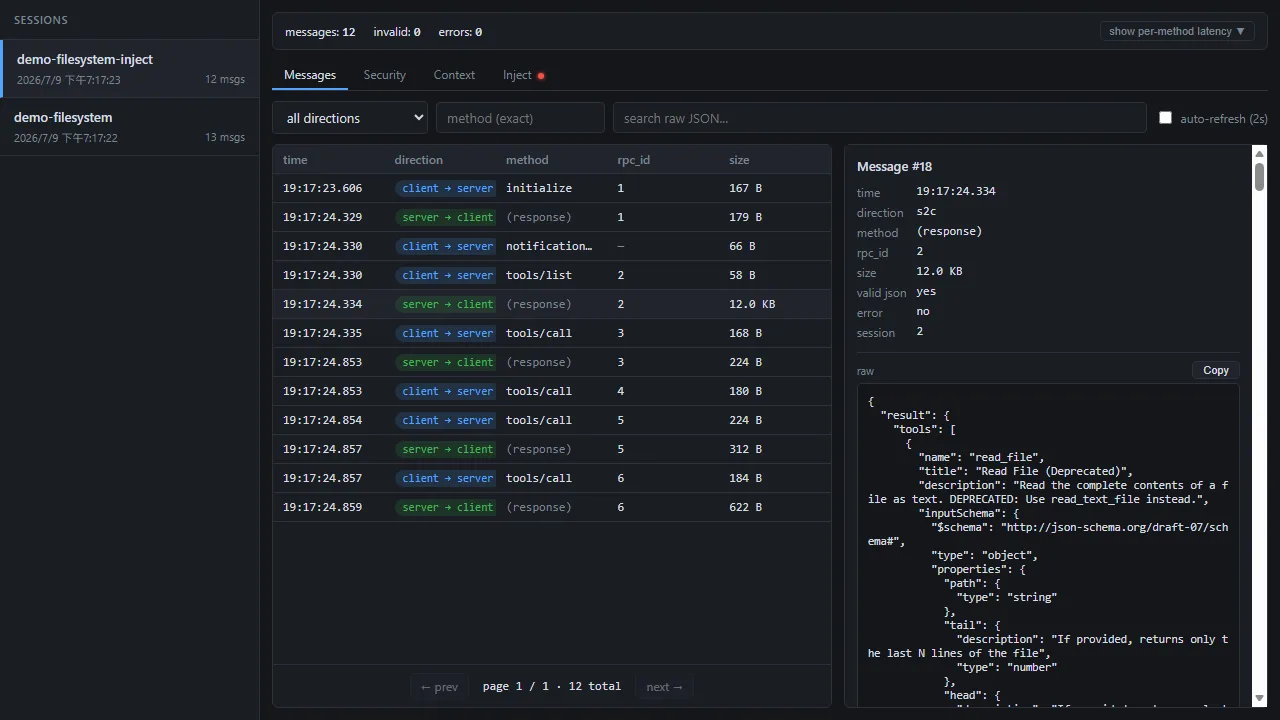
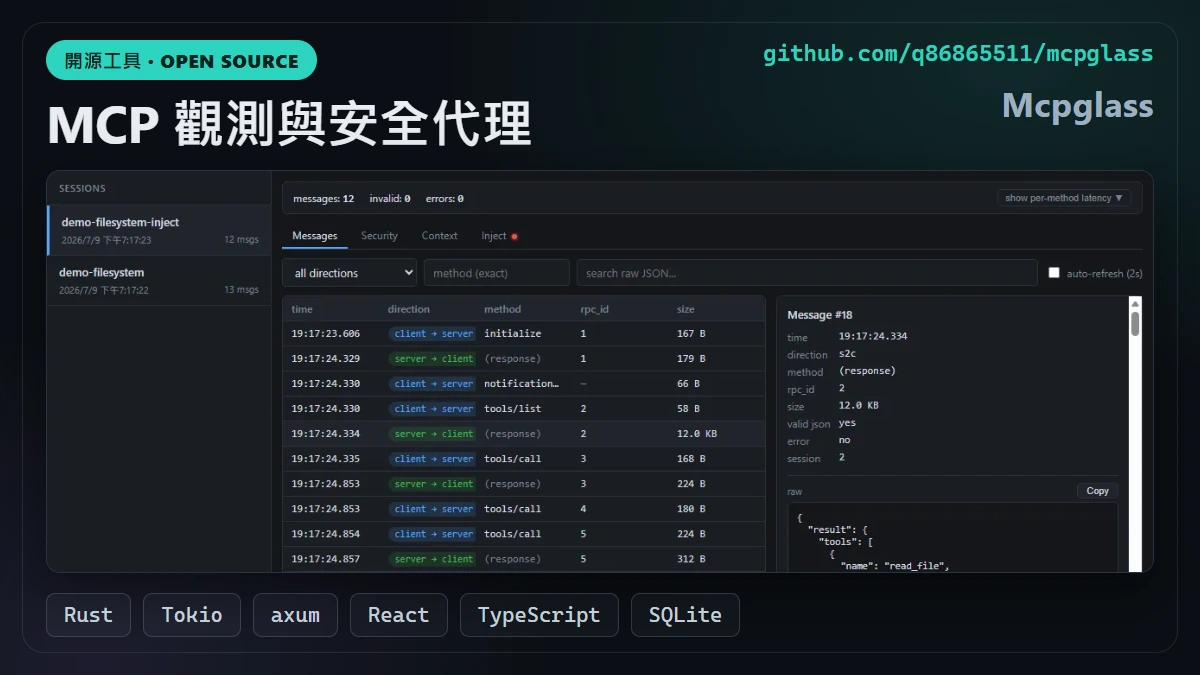
重構: 調整 Mcpglass 的 Notable 順序、名稱大寫與封面分類框架
- content/projects.json:mcpglass 條目移到 usage-monitor 之後(首頁 Notable 末位)
- 顯示標題 repoName/titleEn/titleZh 改為 Mcpglass;內文 CLI 指令、githubUrl、slug 保持小寫
- 重製 covers/mcpglass.webp:套其他 notable 同款框架(實心青「開源工具」分類 pill + 中英標題 + GitHub 連結 + dashboard 截圖 + 技術 chips)

diff --git a/PROGRESS.md b/PROGRESS.md
@@ -4,6 +4,7 @@
 **全套上線並自動化**:主站 https://terrychou.com、子站 https://soulshard.terrychou.com 皆上線。兩個 repo(portfolio、Soulshard-Hunter)各有獨立 self-hosted runner 與 CI/CD,push 即自動部署;對外經 Cloudflare Tunnel(零入站),主站部署後自動 purge 邊緣快取;Cloudflare Web Analytics 運作中(CWV 全綠)。文件齊備、SEO/分享優化完成。前端已套用 Engineer Dark「立體層次」美化與互動/無障礙修正、專案分層調整;履歷 PDF 改為 ATS 格式(並修掉產線誤渲染首頁的 bug、固定專案順序);子站加上「魂晶」favicon。已上線的 SteamSaleChecker 子站(steam.terrychou.com)以 Notable + showcase(卡片直接 Live)收入作品集(R3,PR #18 已 merge、自動部署中),並順手修掉 live-demo 卡片「看詳情」fallback 首頁的既有 bug。已完成上線的 ERPSystem(erp.terrychou.com)由早期 Phase-0/WIP 條目全面更新為**已完成全端 live app**(showcase + liveUrl、換新封面、移除 WIP 徽章、技能補 Spring Boot/Mantine)。
 
 ## 已完成
+- [2026-07-09] 🔤 **Mcpglass:Notable 順序後移 + 名稱首字大寫 + 封面改套分類框架**(使用者指定):① `content/projects.json` 把 mcpglass 條目移到 usage-monitor 之後——首頁 Notable 顯示順序改為 soulshard→steam→erp→usage-monitor→**Mcpglass**(順序由陣列位置決定,`projectsByTier` 保留 JSON 原始序);② 顯示標題三欄 `repoName`/`titleEn`/`titleZh` 的 mcpglass→**Mcpglass**,內文 CLI 指令 `mcpglass attach`、`githubUrl`、`cover` 路徑、`slug` 一律保持小寫(改大寫會壞掉真實指令與路由/檔名);③ 重製封面 `apps/main/public/covers/mcpglass.webp`(1200×675 webp):從光禿 dashboard 截圖改套其他 notable 同款框架——實心青「開源工具 · OPEN SOURCE」分類 pill + 中文主標「MCP 觀測與安全代理」+ 右上 `github.com/q86865511/mcpglass` + 「Mcpglass」品牌名 + 中間圓角框住原截圖 + 底部技術 chips(Rust/Tokio/axum/React/TypeScript/SQLite);puppeteer 一次性腳本產出、不進 repo。RESUME_ORDER(PDF 履歷順序)本就把 mcpglass 排最後,未受影響。驗證:`tsc --noEmit` 通過、`next build` 綠(20 靜態頁含 mcpglass 詳情頁、Exporting 2/2)、grep 確認三標題大寫且內文指令小寫、肉眼確認封面版式與 usage-monitor/erp 一致。
 - [2026-07-08] 📟 **新增 UsageMonitor(AI 用量監控)至 Notable 與 PDF 履歷**:新 repo(Tauri 2/Rust+React 的 Windows 系統匣 AI CLI 用量監控)以 showcase 收入作品集,排 Notable 最後(erp 之後)。① `content/projects.json` 新增 usage-monitor 條目(count 17→18;zh/en 雙語 oneLiner/desc/4 highlights/challenges,文案以 repo README 為準;`canRunInBrowser: false`,notes 指 Releases 下載);② `projects.ts` TIER_MAP 加 notable、RESUME_ORDER 末尾加入、tier 註解同步;③ `site.ts` 技能區程式語言加 Rust、前端加 Tauri(首頁與 PDF 同步生效);④ 新封面 `apps/main/public/covers/usage-monitor.webp`(1200×675 webp,套既有卡片版式:「桌面應用 DESKTOP」青色徽章 + 中英標題 + repo 連結 + 左側雙環量表呼應托盤圖示 + 右側直式截圖(取自 repo docs/screenshot.png)+ 技術 chips;sharp 一次性腳本產出,不進 repo)。驗證:turbo build 綠(19 頁、詳情頁 11 條含 usage-monitor)、Playwright e2e 3/3 過、dev server 實測首頁 Notable 04 卡/詳情頁/`/print?lang=zh|en` 逐項字串全過、generate-pdf 重產後肉眼確認 zh PDF 條目在 ERP 之後且維持兩頁。
 - [2026-07-07] 🗑️ **移除 cyclepact(輪迴盟約)——列為廢棄案(等哪天再做)**:使用者決定暫時下架此 WIP Godot 專案。從履歷網站與 PDF 履歷完整移除:① `content/projects.json` 刪除整個 cyclepact 條目、`count` 18→17;② `apps/main/src/lib/projects.ts` 移除 4 處引用(TIER_MAP、`WIP_SLUGS`(現為空 Set)、`RESUME_ORDER`、tier 註解);③ 刪除孤兒封面圖 `apps/main/public/covers/cyclepact.webp`。因網站(首頁 notable 卡、`/projects/[slug]` 詳情頁、sitemap)與 PDF(`resumeProjects()`)皆由 `projects.json` 衍生,一併同步移除。驗證:`tsc --noEmit` 通過;dev server 首頁已無 cyclepact 卡片/`輪迴盟約`標題/`/projects/cyclepact` 連結,`generateStaticParams()` 不再產出該頁(`dynamicParams=false` → 靜態匯出下 404)。infra(cloudflared/caddy 的「預留:未來啟用」註解)與 docs 教學範例未動——它們本就標示為「未來」,與「廢棄、等哪天再做」定位一致,保留以便日後復用。
 - [2026-07-03] ✏️ **PDF 全 6 專案敘述體檢 + 潤飾(續 ERP 潤飾,同 PR #27)**:逐一檢視 PDF 收錄 6 專案的「oneLiner + 前 2 條 highlights」組合後修 4 處(zh/en 對稱):① **SteamSaleChecker** 同 ERP 模式——oneLiner 原是 h1+h2+h3 的濃縮造成重複,改為講定位(SteamDB 風特價榜 + 自建價格歷史 + Discord 通知;免登入瀏覽/登入解鎖),機制細節留 highlights;② **智慧導航** 修主題矛盾(使用者確認以行人為主)——oneLiner「輔助駕駛/driver-assist」→「行人導航輔助/pedestrian-navigation assistant」、「可行駛區域」→「可通行區域」(含 highlight 2);③ **魂晶** highlight 1 尾巴「零外部圖片素材、零前端框架、零建置流程」與 oneLiner 重複,改為引擎層新資訊(WebAudio 即時合成音效);④ **AI 部署平台** highlights 重排(管線 → Triton → 架構分層 → 可觀測性),讓 PDF 露出的前 2 條更有力(原第 1 條「清晰分層架構」最泛)。cyclepact 檢視後不動(重疊可接受、WIP 標示誠實)。dev server 實測 /print?lang=zh|en 逐項字串驗證全過。